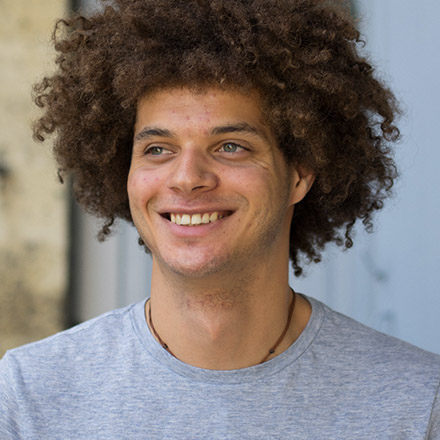
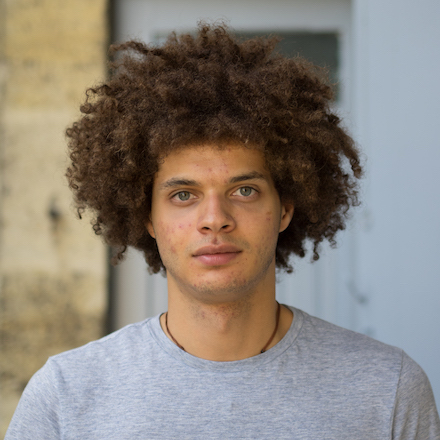
Update Jimmy GIF

diff --git a/source/stylesheets/_common.sass b/source/stylesheets/_common.sass
@@ -376,7 +376,7 @@ header
           &.pierre
             background-image: url(https://media.giphy.com/media/l2JJDEJr3iLHiPEyY/giphy.gif)
           &.jimmy
-            background-image: url(https://media.giphy.com/media/l3vR8AXp51C0EIO0o/giphy.gif)
+            background-image: url(https://media.giphy.com/media/26wd1NDDmHoFy07Ti/giphy.gif)
           &.lauren
             background-image: url(https://media.giphy.com/media/pa37AAGzKXoek/giphy.gif)
 
